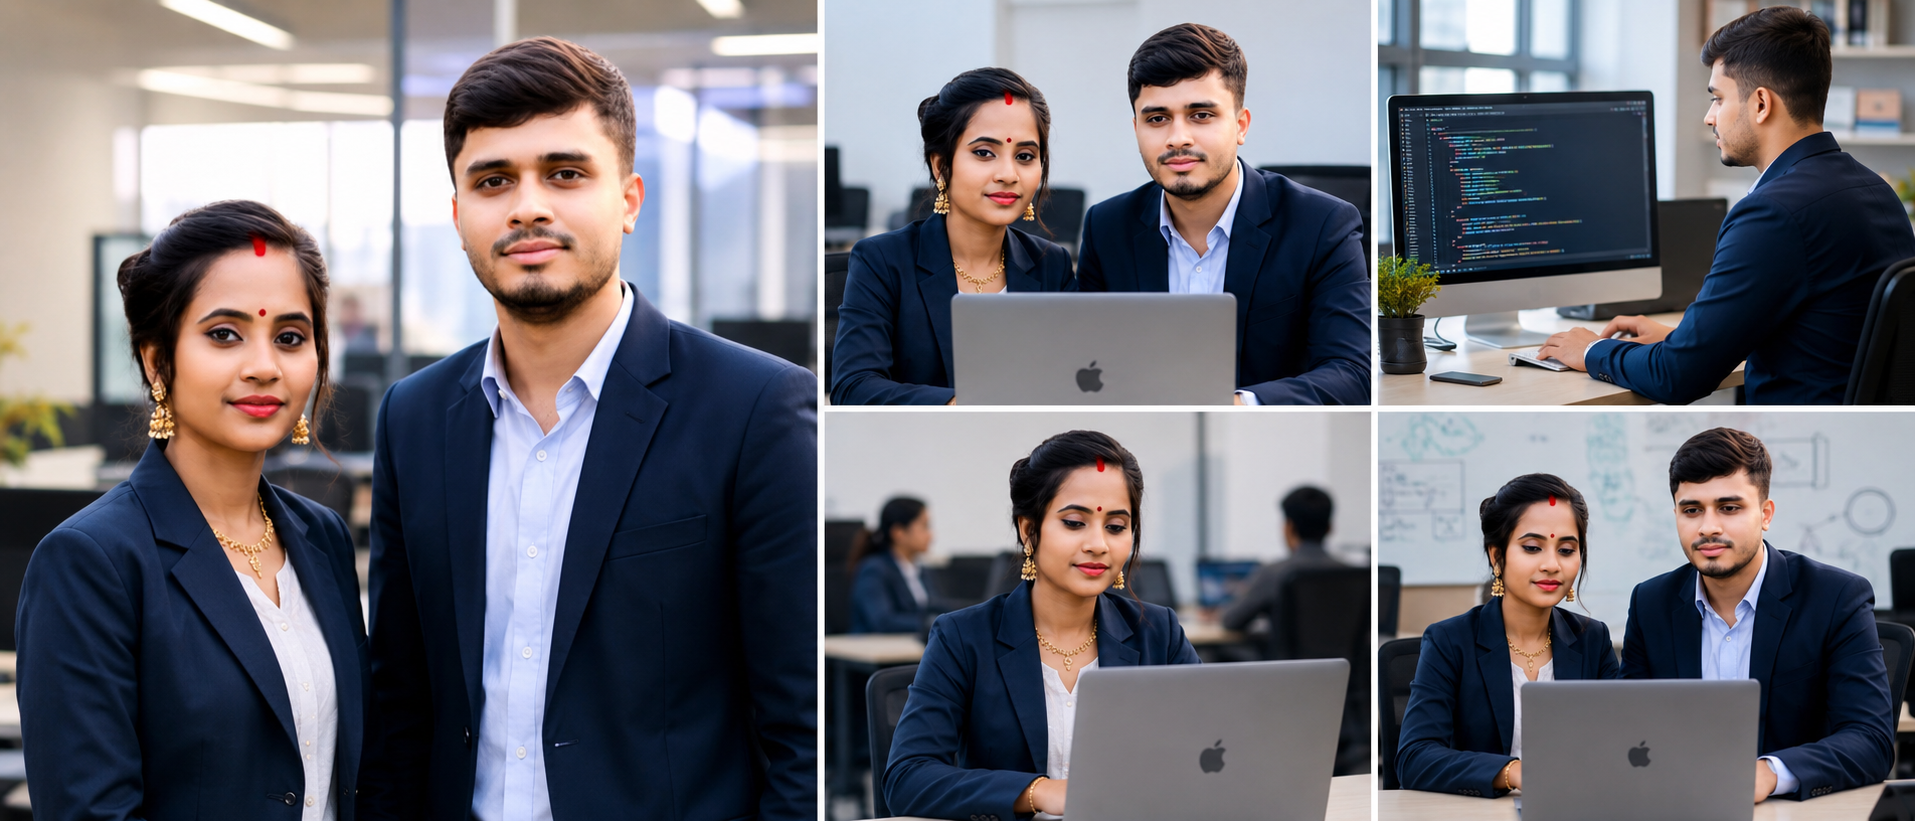
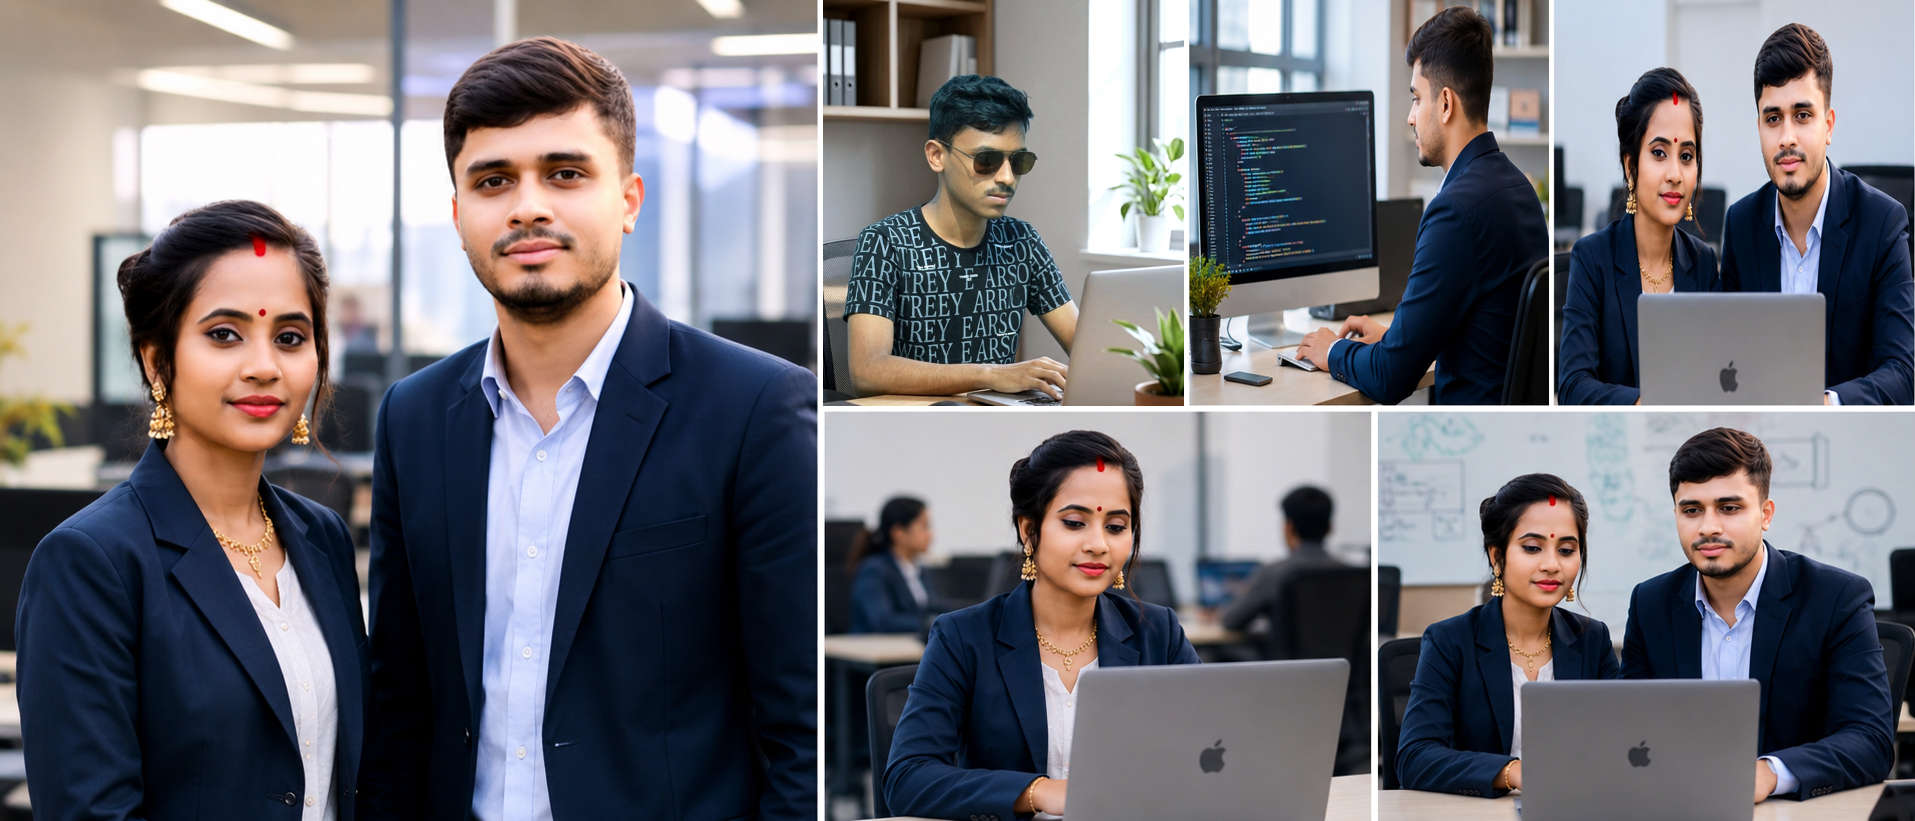
v8.0.3

Changed region(s): [[0.4313, 0.0, 1.0, 0.5177]]

diff --git a/about.html b/about.html
@@ -135,7 +135,7 @@
       <div class="col-lg-7">
         <div class="partner-note h-100">
           <span class="partner-note-tag">A note on how we work together</span>
-          <p>Prothes and Shreyasi are also married. That partnership carries directly into how the studio runs — two independent, hands-on perspectives on every technical decision, shared accountability for what ships, and work divided by skill set rather than by seniority. It's part of why PSBM Labs operates without account managers or a hierarchy in between: the people building the product are also the people who trust each other most to call out a problem early.</p>
+          <p>Prothes and Shreyasi are also married. That partnership carries directly into how the studio runs — two independent, hands-on perspectives on every technical decision, shared accountability for what ships, and work divided by skill set rather than by seniority. Angkan is Prothes's own younger brother — which makes him Shreyasi's Brother-in-law — so the trust that holds the founding partnership together extends naturally to the person keeping every release stable after launch. It's part of why PSBM Labs operates without account managers or a hierarchy in between: the people building and maintaining the product are also the people who trust each other most to call out a problem early.</p>
         </div>
       </div>
       <div class="col-lg-5">
